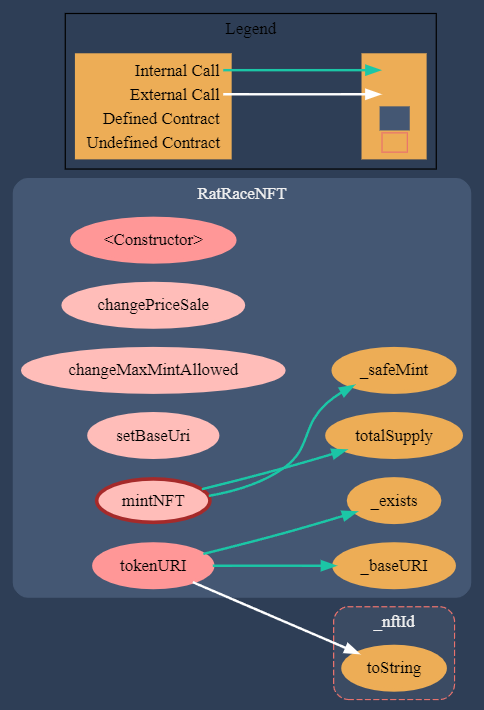
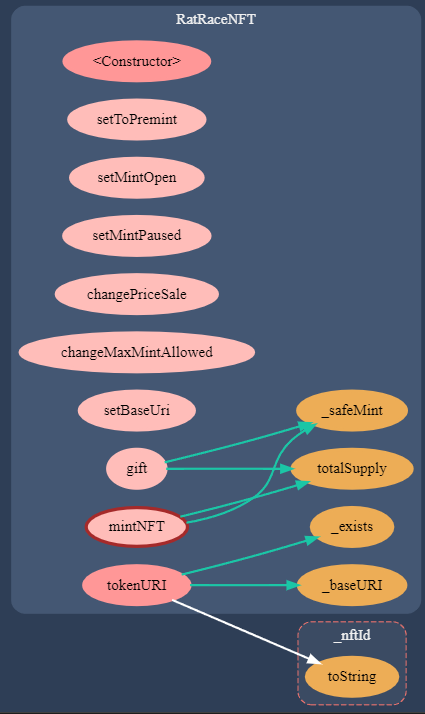
update for README for SC

diff --git a/PayementSplitterDoc.md b/PayementSplitterDoc.md
@@ -1,8 +1,47 @@
-### PaymentSplitter : PaymentSplitter Modified
+# README PaymentSplitter.sol : PaymentSplitter Modified
 
 This is the smart contract of OppenZeppelin PayementSpliter.sol to which we have added a modifier isTeam
 
-  
+## Sūrya's Description Report
+
+ Contracts Description Table
+
+
+|  Contract  |         Type        |       Bases      |                  |                 |
+|:----------:|:-------------------:|:----------------:|:----------------:|:---------------:|
+|     └      |  **Function Name**  |  **Visibility**  |  **Mutability**  |  **Modifiers**  |
+||||||
+| **PaymentSplitter** | Implementation | Context |||
+| └ | <Constructor> | Public ❗ |  💵 |NO❗ |
+| └ | <Receive Ether> | External ❗ |  💵 |NO❗ |
+| └ | totalShares | Public ❗ |   |NO❗ |
+| └ | totalReleased | Public ❗ |   |NO❗ |
+| └ | totalReleased | Public ❗ |   |NO❗ |
+| └ | shares | Public ❗ |   |NO❗ |
+| └ | released | Public ❗ |   |NO❗ |
+| └ | released | Public ❗ |   |NO❗ |
+| └ | payee | Public ❗ |   |NO❗ |
+| └ | release | Public ❗ | 🛑  | onlyTeams |
+| └ | release | Public ❗ | 🛑  | onlyTeams |
+| └ | _pendingPayment | Private 🔐 |   | |
+| └ | _addPayee | Private 🔐 | 🛑  | |
+
+
+ Legend
+
+|  Symbol  |  Meaning  |
+|:--------:|-----------|
+|    🛑    | Function can modify state |
+|    💵    | Function is payable |
+
+## Graph
+![](https://github.com/jw418/Meta-Trader-Society/blob/main/graphLegend.png)
+![](https://github.com/jw418/Meta-Trader-Society/blob/main/graphPayementSpliter.png)
+
+## InheritancePayementSpliter
+![](https://github.com/jw418/Meta-Trader-Society/blob/main/inheritancePayementSpliter.png)
+
+## Doc generate with ETHDOC  
 
 **Functions**
 

diff --git a/RatRaceNFTDoc.md b/RatRaceNFTDoc.md
@@ -1,6 +1,45 @@
-## RatRaceNFT : Contract RatRaceNFt
+# Readme RatRaceNFT.sol : Contract RatRaceNFt
 
 This contract is an ERC721 was written as part of our final project alyra
+
+## Sūrya's Description Report
+
+ Contracts Description Table
+
+
+|  Contract  |         Type        |       Bases      |                  |                 |
+|:----------:|:-------------------:|:----------------:|:----------------:|:---------------:|
+|     └      |  **Function Name**  |  **Visibility**  |  **Mutability**  |  **Modifiers**  |
+||||||
+| **RatRaceNFT** | Implementation | ERC721Enumerable, PaymentSplitter, Ownable |||
+| └ | <Constructor> | Public ❗ | 🛑  | ERC721 PaymentSplitter |
+| └ | setToPremint | External ❗ | 🛑  | onlyOwner |
+| └ | setMintOpen | External ❗ | 🛑  | onlyOwner |
+| └ | setMintPaused | External ❗ | 🛑  | onlyOwner |
+| └ | changePriceSale | External ❗ | 🛑  | onlyOwner |
+| └ | changeMaxMintAllowed | External ❗ | 🛑  | onlyOwner |
+| └ | _baseURI | Internal 🔒 |   | |
+| └ | setBaseUri | External ❗ | 🛑  | onlyOwner |
+| └ | gift | External ❗ | 🛑  | onlyOwner |
+| └ | mintNFT | External ❗ |  💵 |NO❗ |
+| └ | tokenURI | Public ❗ |   |NO❗ |
+
+
+ Legend
+
+|  Symbol  |  Meaning  |
+|:--------:|-----------|
+|    🛑    | Function can modify state |
+|    💵    | Function is payable |
+
+## Graph
+![](https://github.com/jw418/Meta-Trader-Society/blob/main/graphLegend.png)
+![](https://github.com/jw418/Meta-Trader-Society/blob/main/graphRatRaceNFT.png)
+
+## InheritanceRatRaceNFT
+![](https://github.com/jw418/Meta-Trader-Society/blob/main/inheritanceRatRaceNFT.png)
+
+## Doc generate with ETHDOC
 
 Author: Julien Wolff Tristan Boettger
 
